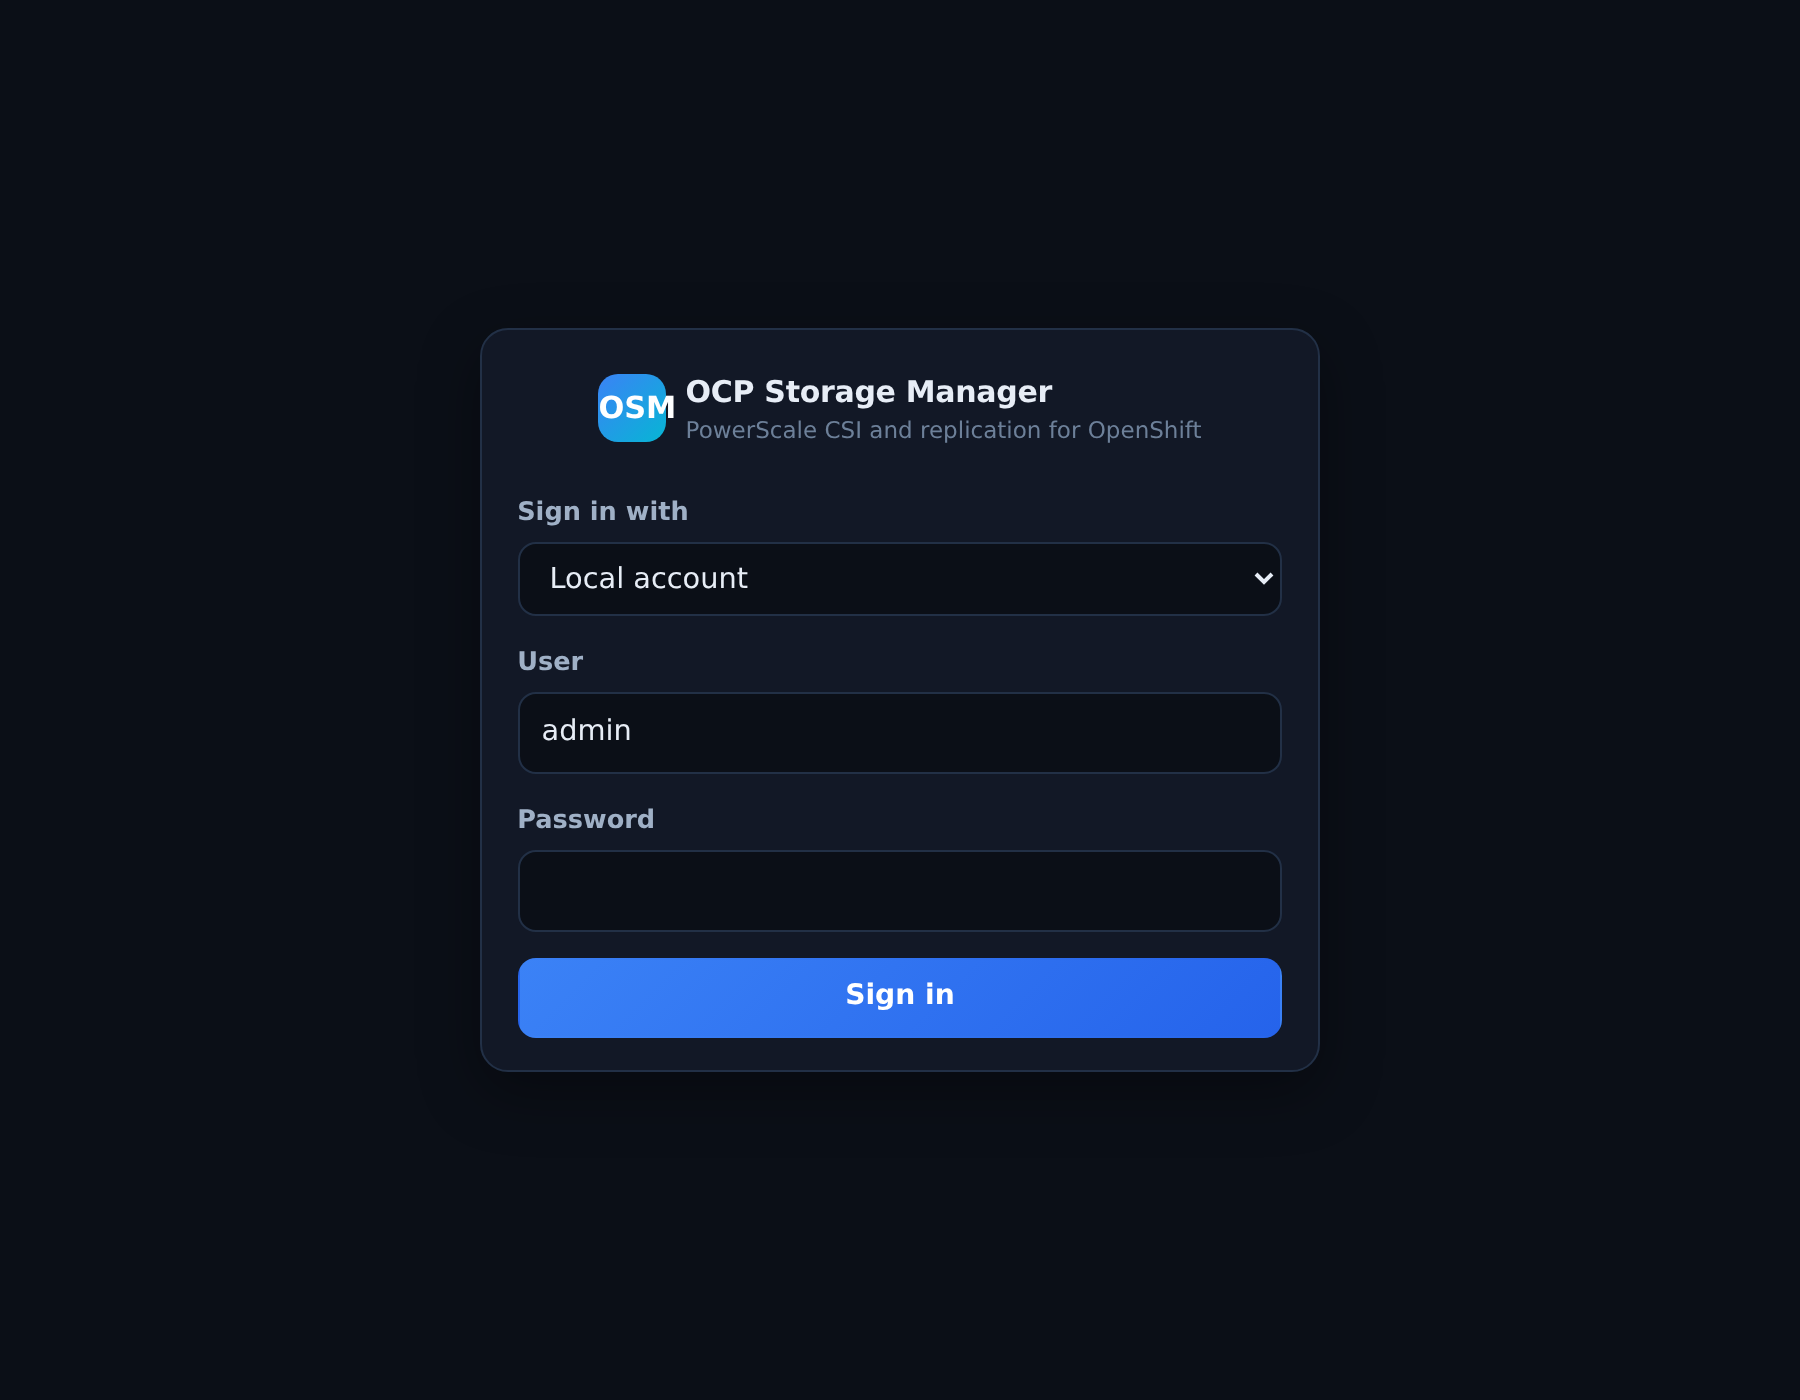
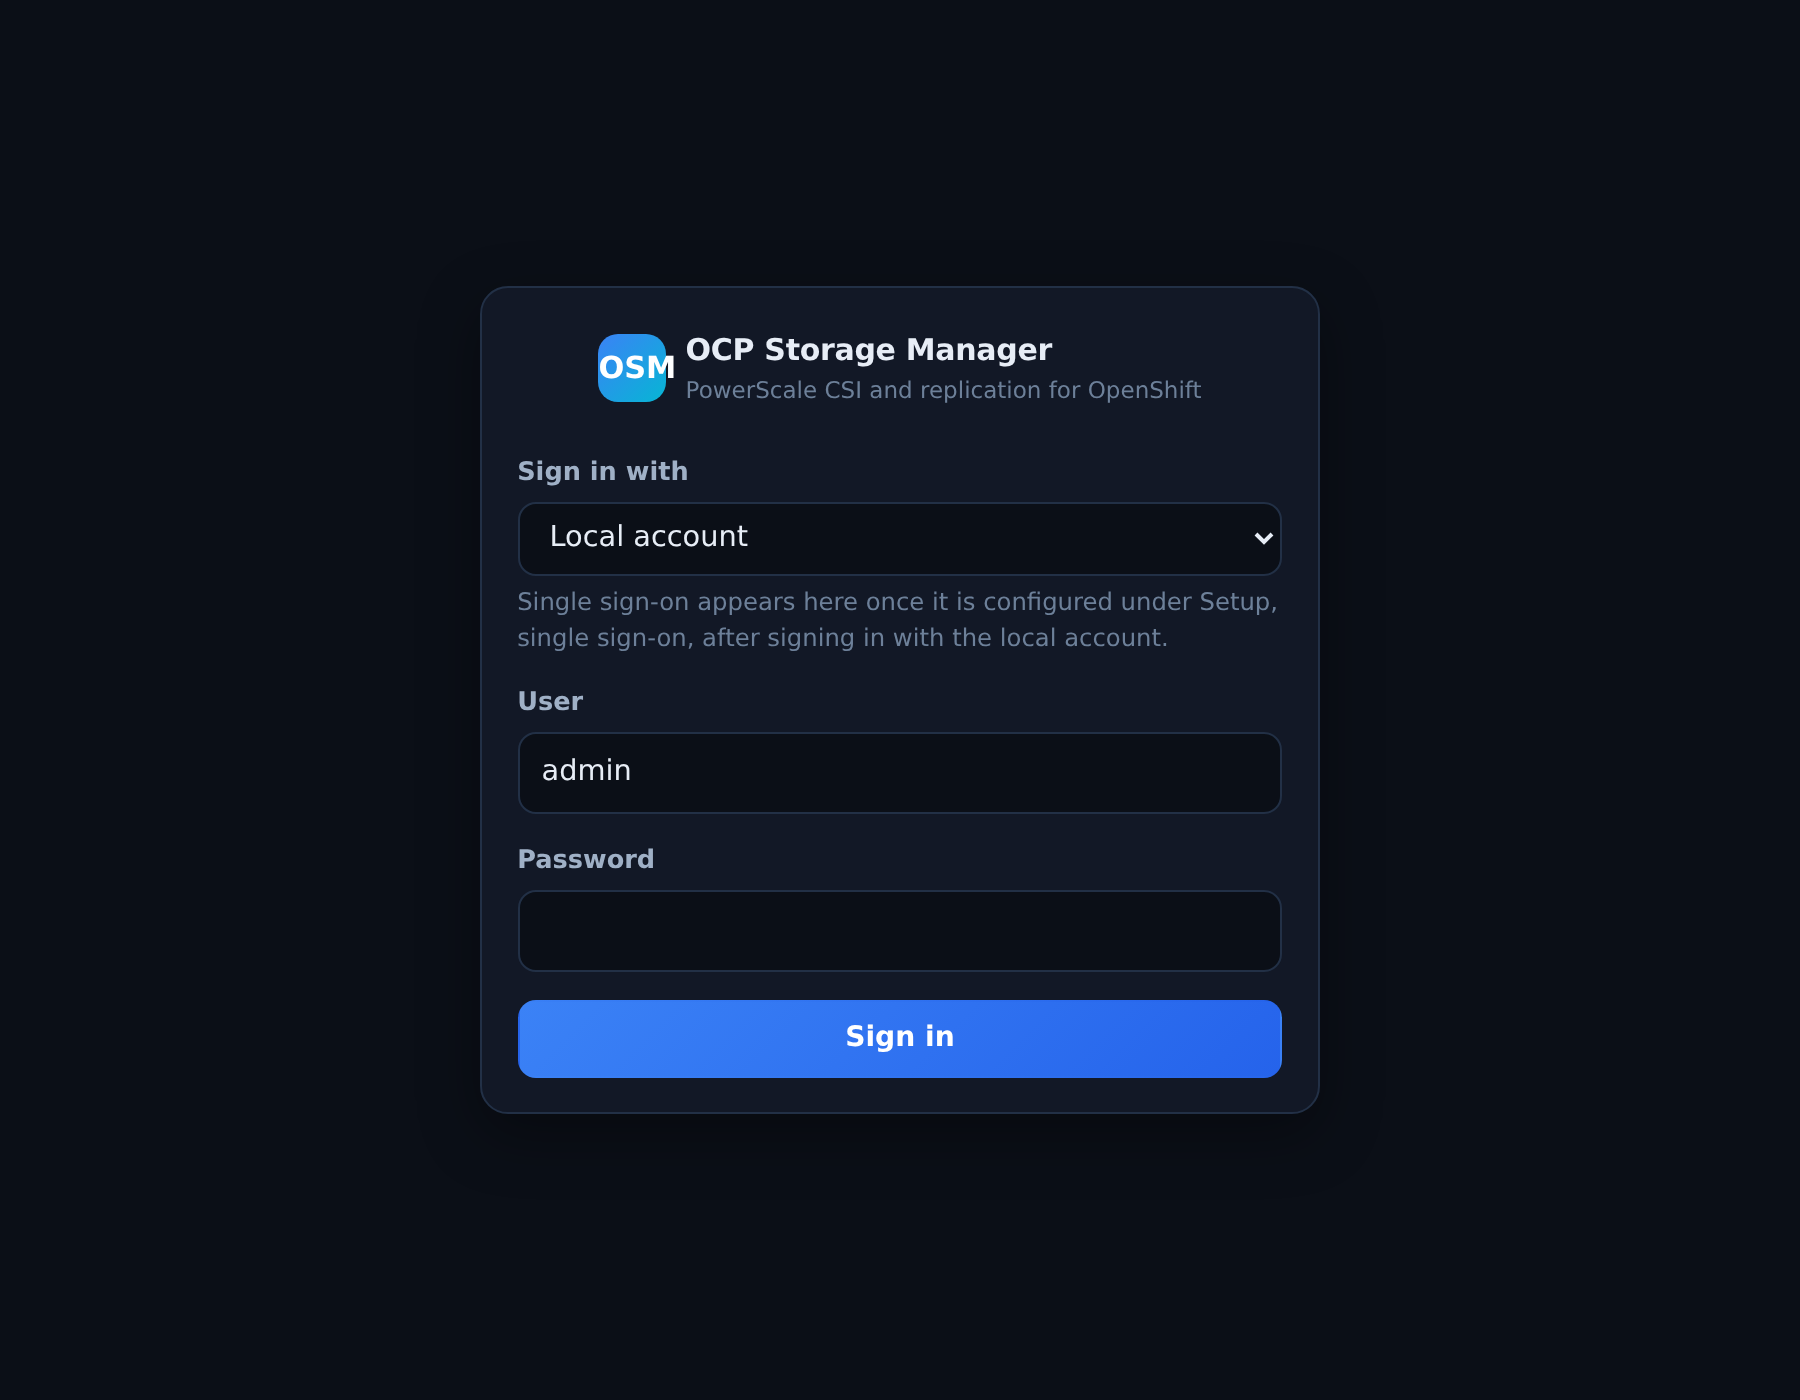
Login: list the directory even before it is configured
Hiding the entry made the console look local-only. Microsoft Entra ID is now always
in the list, greyed out and marked not configured until single sign-on is enabled,
with a line saying where to set it up.

Changed region(s): [[0.28, 0.215, 0.7156, 0.645], [0.28, 0.6757, 0.7156, 0.7986], [0.6844, 0.5221, 0.7156, 0.5529]]

diff --git a/app/app/templates/login.html b/app/app/templates/login.html
@@ -35,9 +35,14 @@
         <div class="field"><label for="source">Sign in with</label>
           <select id="source" name="source">
             {% for o in options %}
-              <option value="{{ o.value }}" {% if o.value == chosen %}selected{% endif %}>{{ o.label }}</option>
+              <option value="{{ o.value }}" {% if o.value == chosen %}selected{% endif %}
+                {% if o.disabled %}disabled{% endif %}>{{ o.label }}{% if o.note %} ({{ o.note }}){% endif %}</option>
             {% endfor %}
           </select>
+          {% if not oidc_ready %}
+          <div class="hint">Single sign-on appears here once it is configured under Setup, single
+            sign-on, after signing in with the local account.</div>
+          {% endif %}
         </div>
         <div class="field"><label for="username">User</label>
           <input id="username" type="text" name="username" autocomplete="username"

diff --git a/app/app/main.py b/app/app/main.py
@@ -49,15 +49,21 @@ async def healthz():
 
 
 def _sign_in_options(state: dict) -> list[dict]:
-    """What the list box on the login page offers."""
-    options = []
-    if state["setup"].get("local_login", "always") != "off" or not state["setup"]["oidc"]["enabled"]:
-        options.append({"value": "local", "label": "Local account"})
-    if state["setup"]["oidc"]["enabled"]:
-        cfg = state["setup"]["oidc"]
-        label = "Microsoft Entra ID" if cfg.get("provider") == "entra" else "Single sign-on"
-        options.append({"value": "entra", "label": label})
-    return options or [{"value": "local", "label": "Local account"}]
+    """What the list box on the login page offers.
+
+    The directory is always listed, even before it is configured, so it is obvious the
+    console supports it. An unconfigured entry is greyed out rather than hidden.
+    """
+    cfg = state["setup"]["oidc"]
+    local_off = state["setup"].get("local_login", "always") == "off" and cfg["enabled"]
+    label = "Microsoft Entra ID" if cfg.get("provider", "entra") == "entra" else "Single sign-on"
+    options = [
+        {"value": "local", "label": "Local account", "disabled": local_off,
+         "note": "switched off" if local_off else ""},
+        {"value": "entra", "label": label, "disabled": not cfg["enabled"],
+         "note": "" if cfg["enabled"] else "not configured yet"},
+    ]
+    return options
 
 
 def _login_page(request: Request, error: str = "", next: str = "/", chosen: str = "local",
@@ -68,6 +74,7 @@ def _login_page(request: Request, error: str = "", next: str = "/", chosen: str 
         "next": next, "error": error, "notice": notice,
         "app_name": APP_NAME, "tagline": APP_TAGLINE,
         "oidc": state["setup"]["oidc"], "options": _sign_in_options(state), "chosen": chosen,
+        "oidc_ready": state["setup"]["oidc"]["enabled"],
         "redirect_available": bool(state["setup"]["oidc"].get("redirect_url")),
     })
 
